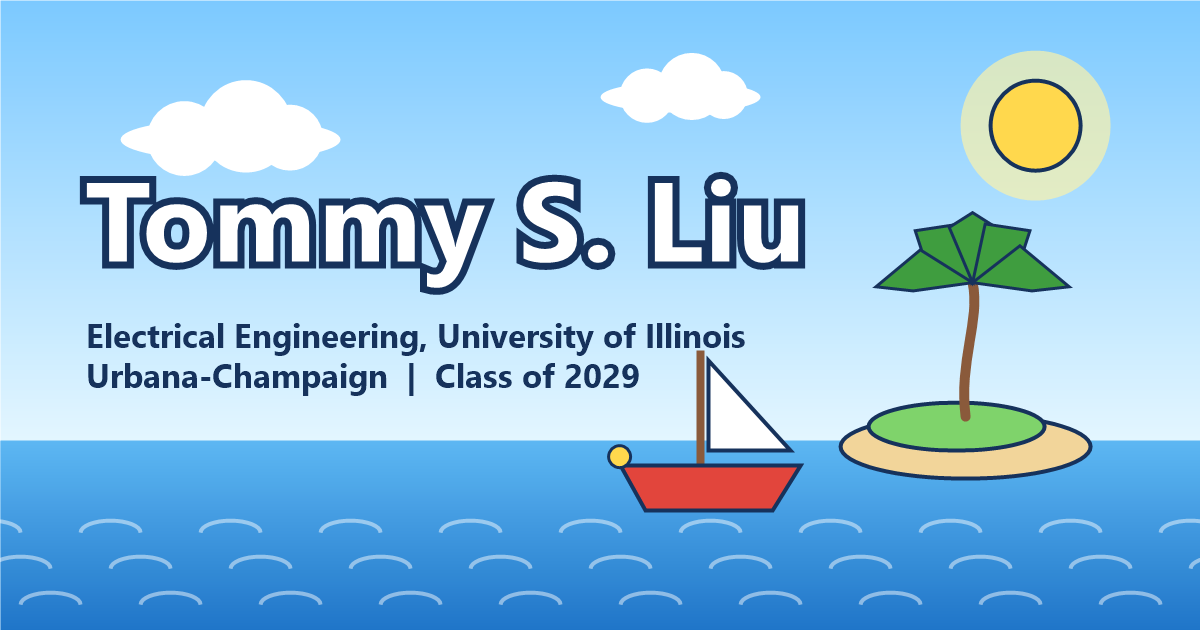
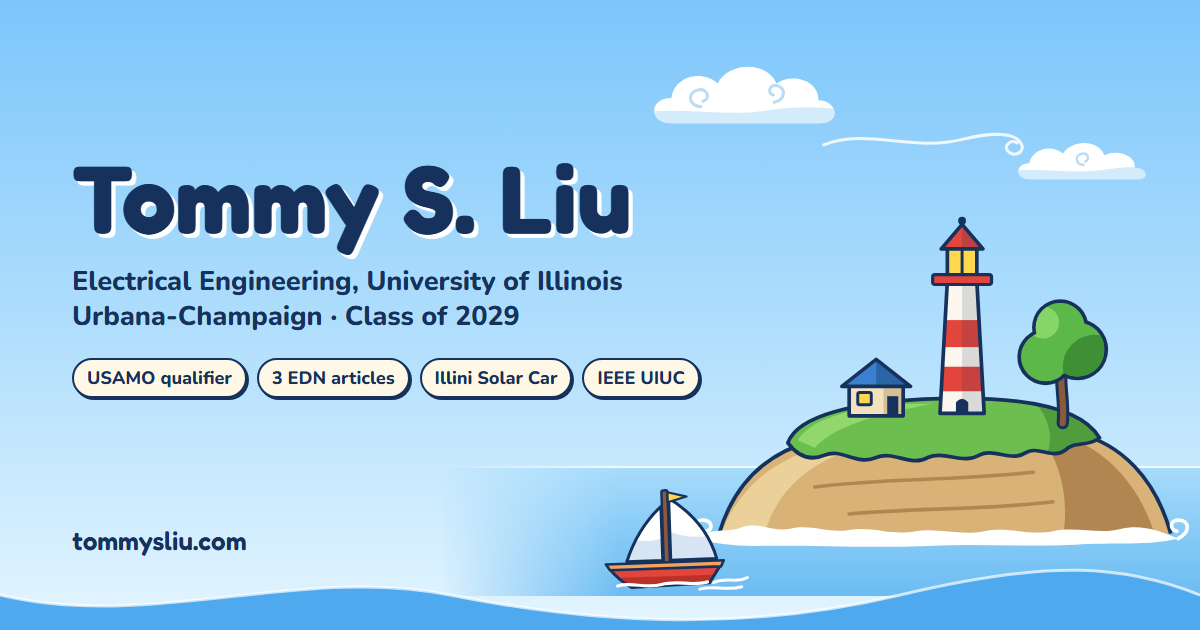
Cut News and non-role Experience entries, add GitHub and link preview
- Remove the News section; its items already live in Awards and Experience
- Drop the USAMO and YC Startup School timeline entries; move the USAMO problems link onto the USAMO award card
- Add GitHub to the intro and contact links
- Redraw og-image.png to match the seascape intro and reference it from www.tommysliu.com

diff --git a/index.html b/index.html
@@ -9,6 +9,13 @@
 <meta property="og:title" content="Tommy S. Liu">
 <meta property="og:description" content="Electrical Engineering student at the University of Illinois Urbana-Champaign, Class of 2029. USAMO qualifier, published in EDN, violinist.">
 <meta property="og:type" content="website">
+<meta property="og:url" content="https://www.tommysliu.com/">
+<meta property="og:image" content="https://www.tommysliu.com/og-image.png">
+<meta property="og:image:width" content="1200">
+<meta property="og:image:height" content="630">
+<meta property="og:image:alt" content="Tommy S. Liu, Electrical Engineering at UIUC">
+<meta name="twitter:card" content="summary_large_image">
+<link rel="canonical" href="https://www.tommysliu.com/">
 <link rel="icon" href="/favicon.svg" type="image/svg+xml">
 <link rel="preconnect" href="https://fonts.googleapis.com">
 <link rel="preconnect" href="https://fonts.gstatic.com" crossorigin>
@@ -49,7 +56,6 @@
           <a href="#projects">Projects</a>
           <a href="#experience">Experience</a>
           <a href="#awards">Awards</a>
-          <a href="#news">News</a>
           <a href="#violin">Violin</a>
           <a href="#gallery">Gallery</a>
           <a href="#contact">Contact</a>
@@ -72,6 +78,7 @@
         <a href="mailto:tommysl2@illinois.edu">tommysl2@illinois.edu</a><span class="sep">·</span>
         <a href="mailto:tommysliu8@gmail.com">tommysliu8@gmail.com</a><span class="sep">·</span>
         <a href="https://linkedin.com/in/tommysliu/" target="_blank" rel="noopener">LinkedIn</a><span class="sep">·</span>
+        <a href="https://github.com/tommysl8" target="_blank" rel="noopener">GitHub</a><span class="sep">·</span>
         <a href="https://x.com/tommysliu" target="_blank" rel="noopener">X</a>
       </p>
       <!-- Photo: drop a file at /img/tommy.jpg and add <img class="portrait" src="/img/tommy.jpg" alt="Tommy S. Liu"> above the h1 -->
@@ -289,16 +296,6 @@
             <div class="btns"><a class="btn" href="https://www.panslab.com/home" target="_blank" rel="noopener">Lab website</a></div>
           </li>
           <li class="minor">
-            <div class="tl-top"><h3>Y Combinator, Startup School 2026</h3><span class="tl-when">Jul 25 – 26, 2026</span></div>
-            <div class="btns"><a class="btn" href="https://events.ycombinator.com/startup-school-2026" target="_blank" rel="noopener">events.ycombinator.com</a></div>
-          </li>
-          <li class="minor">
-            <div class="tl-top"><h3>USA Mathematical Olympiad, UC Berkeley</h3><span class="tl-when">Mar 20 – 21, 2026</span></div>
-            <p>Thank you Jane Street and Citadel Securities for the free merch!</p>
-            <p>Feel free to try the 2026 USA(J)MO problems. Don't worry if you cannot solve a single one, since the USAMO is often almost as difficult as the International Mathematical Olympiad (IMO), the hardest pre-college mathematics exam in the world.</p>
-            <div class="btns"><a class="btn" href="https://drive.google.com/drive/folders/12jr2Ez9QWjyWrRsDcLe5rf0nQaha-6-F?usp=sharing" target="_blank" rel="noopener">2026 USA(J)MO problems</a></div>
-          </li>
-          <li class="minor">
             <div class="tl-top"><h3>University of California, Los Angeles · Los Angeles Computing Circle</h3><span class="tl-when">Jul – Aug 2024</span></div>
             <p>A free but selective summer program led by UCLA's ECE Department, where high school students explore AI, algorithms, data structures, communications, developing apps, and computing theory through hands-on labs and faculty-led lectures. Participated in the 2024 program.</p>
             <div class="btns"><a class="btn" href="https://sites.google.com/site/computingcircle/home" target="_blank" rel="noopener">Program website</a></div>
@@ -318,7 +315,7 @@
         <article class="award">
           <div class="award-head"><h3>USA Mathematical Olympiad (USAMO)</h3><span class="year">2026</span></div>
           <p class="stat-line"><em>Top 250</em> of an initial pool of over 100,000</p>
-          <p class="note">Qualifier. The proof-based final round of the AMC and AIME selection sequence.</p>
+          <p class="note">Qualifier. The proof-based final round of the AMC and AIME selection sequence. <a href="https://drive.google.com/drive/folders/12jr2Ez9QWjyWrRsDcLe5rf0nQaha-6-F?usp=sharing" target="_blank" rel="noopener">Try the 2026 USA(J)MO problems</a>.</p>
         </article>
 
         <article class="award">
@@ -363,33 +360,6 @@
           <p class="note">Honors designation in UIUC's Electrical and Computer Engineering department.</p>
         </article>
 
-      </div>
-    </section>
-
-    <!-- ================= NEWS ================= -->
-    <section id="news" class="sec">
-      <div class="sec-head">
-        <svg class="glyph" viewBox="0 0 24 24" fill="#fff" stroke="#16325c" stroke-width="1.9" stroke-linejoin="round" aria-hidden="true"><path d="M6 3h11a3 3 0 0 1 3 3v12a3 3 0 0 1-3 3H6z"/><path d="M6 3a3 3 0 0 0 0 6h2M6 21a3 3 0 0 1 0-6" fill="none"/><path d="M10 9h6M10 13h6M10 17h4" fill="none" stroke-linecap="round"/></svg>
-        <h2>News</h2><span class="route" aria-hidden="true"></span>
-      </div>
-      <div class="card">
-        <ul class="news" id="news-list">
-          <li><span class="when">Oct 2026</span><span>Selected as one of two circuit design engineers for IEEE UIUC's 2027 Engineering Open House project team, the only freshman on the team</span></li>
-          <li><span class="when">Sep 2026</span><span>Joined Illini Solar Car's Battery Management System (BMS) subteam, leading a new buck converter PCB for the next car</span></li>
-          <li><span class="when">Mar 3, 2026</span><span>Invited to compete in the 2026 United States of America Mathematical Olympiad (USAMO)</span></li>
-          <li><span class="when">Feb 20, 2026</span><span>Named an ECE Grainger Engineering James Scholar and awarded the William T. Pascoe III Memorial Engineering Scholarship</span></li>
-          <li><span class="when">Jan 20, 2026</span><span>My air quality sensing system research with PANSLAB was published in <a href="https://www.edn.com/sensing-and-power-generation-circuits-for-a-batteryless-mobile-pm2-5-monitoring-system/" target="_blank" rel="noopener">Electronic Design News (EDN)</a></span></li>
-          <li><span class="when">Dec 15, 2025</span><span>Invited to compete in the 2026 American Invitational Mathematics Examination (AIME)</span></li>
-          <li class="hidden"><span class="when">Jun 9, 2025</span><span>Started my research intern position at UC Merced's PANSLAB</span></li>
-          <li class="hidden"><span class="when">May 12, 2025</span><span>Awarded Distinction on the USA Physics Olympiad</span></li>
-          <li class="hidden"><span class="when">Apr 14, 2025</span><span>Second part of my low-cost oscilloscope design idea published in <a href="https://www.edn.com/building-a-low-cost-precision-digital-oscilloscope-part-2/" target="_blank" rel="noopener">EDN</a></span></li>
-          <li class="hidden"><span class="when">Apr 2, 2025</span><span>First part of my low-cost oscilloscope design idea published in <a href="https://www.edn.com/building-a-low-cost-precision-digital-oscilloscope/" target="_blank" rel="noopener">EDN</a></span></li>
-          <li class="hidden"><span class="when">Mar 23, 2025</span><span>Awarded the IEEE Technical Excellence Award at the 2025 Synopsys Science Fair</span></li>
-          <li class="hidden"><span class="when">Mar 14, 2025</span><span>Invited to compete in the 2025 USA Physics Olympiad</span></li>
-          <li class="hidden"><span class="when">Jan 29, 2025</span><span>Selected as an MIT THINK Scholar Semifinalist</span></li>
-          <li class="hidden"><span class="when">Dec 13, 2024</span><span>Invited to compete in the 2025 American Invitational Mathematics Examination (AIME)</span></li>
-        </ul>
-        <button class="more" id="news-more">Show older news</button>
       </div>
     </section>
 
@@ -508,6 +478,7 @@
           <a href="mailto:tommysl2@illinois.edu">tommysl2@illinois.edu</a>
           <a href="mailto:tommysliu8@gmail.com">tommysliu8@gmail.com</a>
           <a href="https://linkedin.com/in/tommysliu/" target="_blank" rel="noopener">linkedin.com/in/tommysliu</a>
+          <a href="https://github.com/tommysl8" target="_blank" rel="noopener">github.com/tommysl8</a>
           <a href="https://x.com/tommysliu" target="_blank" rel="noopener">x.com/tommysliu</a>
         </div>
       </div>

diff --git a/styles.css b/styles.css
@@ -262,15 +262,6 @@ button { font: inherit; color: inherit; background: none; border: 0; cursor: poi
 }
 .award .note { margin-top: 9px; font-size: 14px; color: var(--muted); font-weight: 700; }
 
-/* ---------- news: deliberately minor ---------- */
-.news { font-size: 15px; }
-.news li { display: grid; grid-template-columns: 108px 1fr; gap: 16px; padding: 8px 0; border-top: var(--dash); }
-.news li:first-child { border-top: 0; }
-.news .when { font-weight: 800; font-size: 13px; color: var(--muted); }
-.news li.hidden, .hidden { display: none; }
-.more { margin-top: 14px; font-weight: 800; font-size: 14px; color: var(--navy); text-decoration: underline; text-underline-offset: 3px; text-decoration-color: rgba(22, 50, 92, 0.35); }
-.more:hover { text-decoration-color: var(--navy); }
-
 /* ---------- violin ---------- */
 .violin { display: grid; grid-template-columns: minmax(0, 1.1fr) minmax(0, 0.9fr); gap: 20px; align-items: start; }
 .violin h3, .card h3.sub { font-family: var(--font-display); font-weight: 600; font-size: 1.05rem; margin-bottom: 10px; }
@@ -365,7 +356,7 @@ button { font: inherit; color: inherit; background: none; border: 0; cursor: poi
   .card, .feature, .pubs { padding: 18px 18px; }
   .contact { padding: 24px 18px 26px; }
   .gallery { columns: 1; }
-  .pubs li, .news li { grid-template-columns: 1fr; gap: 2px; }
+  .pubs li { grid-template-columns: 1fr; gap: 2px; }
   .timeline { padding-left: 28px; }
   .timeline > li::before { left: -26px; }
   .timeline > li.minor::before { left: -24px; }

diff --git a/main.js b/main.js
@@ -52,20 +52,6 @@
     else img.addEventListener('error', () => placeholder(img));
   });
 
-  // News: show older items
-  const more = $('#news-more');
-  if (more) {
-    more.addEventListener('click', () => {
-      const hidden = $$('#news-list li.hidden');
-      hidden.forEach(li => li.classList.remove('hidden'));
-      if (hidden[0]) {
-        hidden[0].setAttribute('tabindex', '-1');
-        hidden[0].focus();
-      }
-      more.remove();
-    });
-  }
-
   const year = $('#year');
   if (year) year.textContent = String(new Date().getFullYear());
 })();

diff --git a/README.md b/README.md
@@ -4,11 +4,11 @@ Plain HTML / CSS / JS. No build step.
 
 ```
 index.html        single page: intro (with island/sailboat scene), education, projects & publications,
-                  experience, awards & honors, news, violin, gallery, contact
+                  experience, awards & honors, violin, gallery, contact
 styles.css        Wind Waker-inspired theme (sky, sea-chart grid, cream panels); colour tokens at the top
-main.js           sticky-nav state, mobile menu, section highlighting, "show older news"
+main.js           sticky-nav state, mobile menu, section highlighting, image placeholders
 img/              photos (see to-do)
-og-image.png      social preview card
+og-image.png      social preview card (1200x630, referenced by og:image at www.tommysliu.com)
 404.html          not-found page (Vercel picks it up automatically)
 vercel.json       cleanUrls -> pages resolve without the .html extension
 ```
@@ -27,6 +27,7 @@ then open http://localhost:5500. With Node installed: `npx serve .`
 
 Push to GitHub and import the repo in Vercel (framework preset **Other**, no build command,
 output directory `.`), or run `vercel` from this folder after `npm i -g vercel && vercel login`.
+Live at https://www.tommysliu.com (tommysliu.com redirects there).
 
 ## Images
 
@@ -46,4 +47,3 @@ img/tommy.jpg               optional headshot (see the comment in index.html)
 ## Other to-dos before launch
 
 - Add `resume.pdf` and un-comment the Resume link in `index.html` (nav).
-- Add an absolute `og:image` meta tag once the domain / Vercel URL is known.
